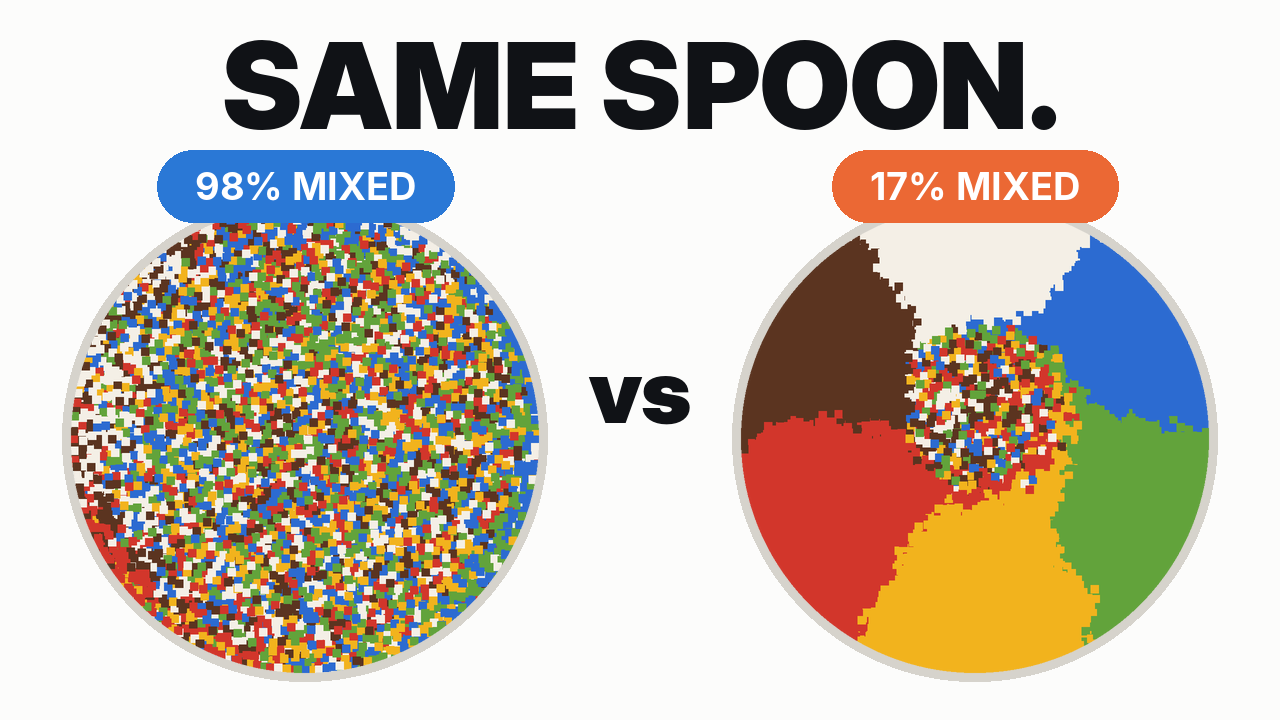
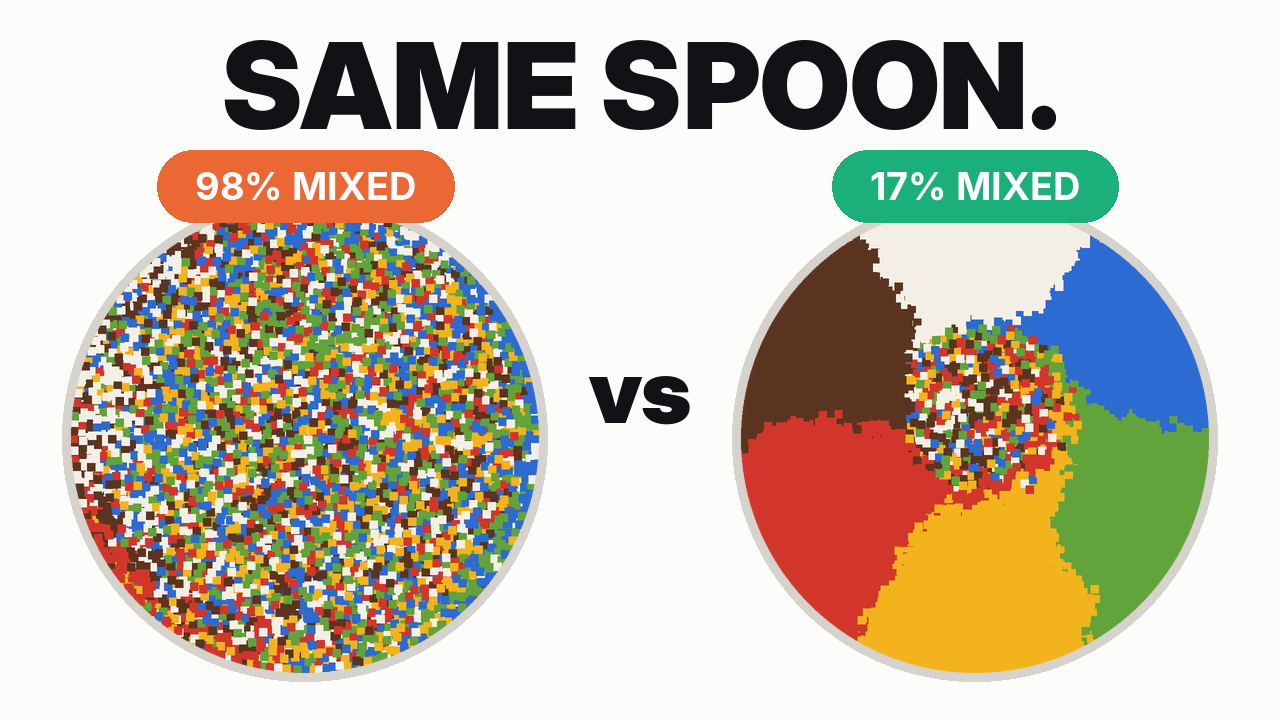
powder_mixer: thumbnails and 1080p still with the KitchenAid mixers
Claude-Session: https://claude.ai/code/session_01S7EUN4CGcs5VcH7QMy88q6

Changed region(s): [[0.125, 0.1833, 0.375, 0.3361], [0.625, 0.1833, 0.875, 0.3361]]

diff --git a/videos/powder_mixer/make_thumbs.py b/videos/powder_mixer/make_thumbs.py
@@ -40,16 +40,15 @@ def main(still):
     run = lambda load, tool: F.Run(MF.run_dir(load, tool))
     score = lambda key: {ms[key]["a"]: ms[key]["ra"], ms[key]["b"]: ms[key]["rb"]}     # by tool, whichever side it stood on
 
-    # A: the 3-D still, spoon (left) against the stand mixer (right); render it with
-    #    bowl_scene.py --left cache/film/stripes_spoon --right cache/film/stripes_paddle_large
+    # A: the 3-D still, spoon (left) against the stand mixer's paddle (right); render it 16:9 with
+    #    bowl_scene.py --left cache/film/stripes_spoon --right cache/film/stripes_paddle_large --no-hud
+    #                  --still 150 --res 1920x1080 --samples 40 --elev 31 --dist 820 --target 0,20,95
     sc = score("S1")
-    im = Image.open(still).convert("RGB")
-    w, h = im.size
-    im = im.crop((int(w * 0.08), int(h * 0.13), int(w * 0.92), int(h * 0.13) + int(w * 0.84 * H / W))).resize((W, H), Image.LANCZOS)
+    im = Image.open(still).convert("RGB").resize((W, H), Image.LANCZOS)
     d = ImageDraw.Draw(im)
-    headline(d, (W // 2, 26), "SPOON vs STAND MIXER", 82, anchor="ma")
-    pill(d, (150, 606), f"{100 * sc['spoon']:.0f}% MIXED", 44, F.tool_rgb("spoon"))
-    pill(d, (W - 150, 606), f"{100 * sc['paddle_large']:.0f}% MIXED", 44, F.tool_rgb("paddle_large"), anchor="r")
+    headline(d, (W // 2, 20), "SPOON vs STAND MIXER", 82, anchor="ma")
+    pill(d, (70, 612), f"{100 * sc['spoon']:.0f}% MIXED", 44, F.tool_rgb("spoon"))
+    pill(d, (W - 70, 612), f"{100 * sc['paddle_large']:.0f}% MIXED", 44, F.tool_rgb("paddle_large"), anchor="r")
     im.save(os.path.join(out, "mix_off_thumb_A.png"))
 
     # B: eight top-down bowls five seconds in

diff --git a/videos/powder_mixer/make_short.py b/videos/powder_mixer/make_short.py
@@ -2,7 +2,7 @@
 A vertical (1080x1920) Short from one match of the knockout: the two bowls
 stacked, each rendered on its own so it stays sharp.
 
-    python make_short.py render      # two single-bowl renders (about 40 min on 4 cores)
+    python make_short.py render      # two single-bowl renders (about 75 min on 4 cores)
     python make_short.py compose     # -> same_spoon_SHORT.mp4
 """
 import argparse
